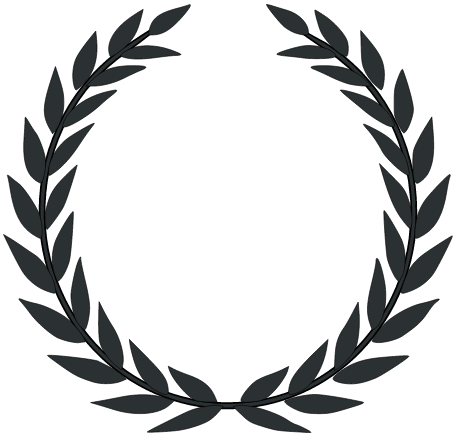
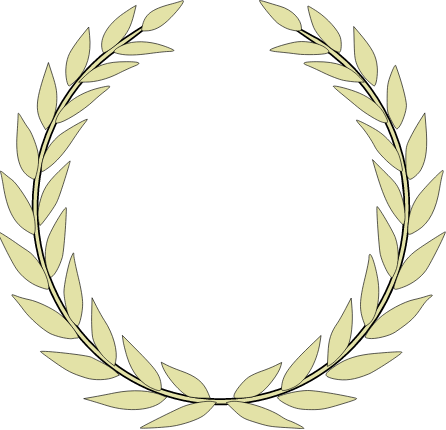
Player (Goalkeeper) added !

Changed region(s): [[0.0, 0.0, 1.0, 0.9977]]

diff --git a/src/components/carte/joueur/JoueurGardienCarte.js b/src/components/carte/joueur/JoueurGardienCarte.js
@@ -1,10 +1,11 @@
 import '../../../styles/index.css'
 import {Link} from "react-router-dom";
 
+// IMG
+import { PLAYERS, NATIONALITIES } from '../../../data/Api';
+
 // Images
-import onana from '../../../assets/onana.png'
-import laurier_blue from '../../../assets/laurier_blue.png'
-import argentina from '../../../assets/argentina.png'
+import laurier from '../../../assets/laurier.png'
 import match from '../../../assets/icon/match.png'
 import goalkeeper from '../../../assets/icon/goalkeeper.png'
 import save from '../../../assets/icon/save.png'
@@ -14,7 +15,10 @@ import Box from '@mui/material/Box';
 import { Tooltip } from '@mui/material';
 import { COLOR } from '../../../data/Constants';
 
-function JoueurGardienCarte({ isClickDisabled = false}){
+function JoueurGardienCarte(props){
+    const gk_player = props.gk_player;
+    const isClickDisabled = false;
+
     return(
         <div className={`${isClickDisabled ? 'h-full' : ''} flex justify-evenly`}>
             <div className="mt-1">
@@ -26,31 +30,31 @@ function JoueurGardienCarte({ isClickDisabled = false}){
                         >
                             {/* (1) Laurier(img) */}
                             <div className="z-10 top-1/4 left-1/4 translate-x-[8rem] translate-y-[1.5rem]">
-                                <img className="w-[4rem] h-[4rem]" src={laurier_blue} alt="" />
+                                <img className="w-[4rem] h-[4rem]" src={laurier} alt="" />
                             </div>
 
                             {/* (2) Drapeau(img) & Position(p) */}
                             <div className="flex flex-col justify-center translate-x-[1.5rem] translate-y-[3rem]">
                                 <div className="z-10 top-1/4 left-1/4">
-                                    <p className='text-white text-xl font-bold -translate-x-[6.5rem] -translate-y-[0.5rem]'>ST</p>
+                                    <p className='text-white text-xl font-bold -translate-x-[6.5rem] -translate-y-[0.5rem]'>GK</p>
                                 </div>
                                 <div className="z-10 top-1/4 left-1/4">
-                                    <img className="w-[5rem] h-[4rem] translate-x-[1rem] translate-y-[0.5rem]" src={argentina} alt="argentina" />
+                                    <img className="w-[5rem] h-[4rem] translate-x-[1rem] translate-y-[0.5rem]" src={`${NATIONALITIES.IMG}/${gk_player.nationalityName}`} alt={`${gk_player.nationalityName}`} />
                                 </div>
                             </div>
 
                             {/* (3) Joueur(img) & Nom(p) */}
                             <div className="flex flex-col justify-center">
                                 <div className="z-10 top-1/4 left-1/4 translate-x-[10rem] -translate-y-[3rem]">
-                                    <img className="w-[8rem] h-[8rem] rounded-full border-solid border-4 border-tiffanyBlue" src={onana} alt="" />
+                                    <img className="w-[8rem] h-[8rem] rounded-full border-solid border-4 border-yellow bg-white" src={`${PLAYERS.IMG}/${gk_player.playerId}`} alt={`${gk_player.playerName}`}  />
                                 </div>
-                                <p className="z-10 text-white text-2xl font-title font-bold -translate-y-[1.5rem]">André Onana</p>
+                                <p className="z-10 text-white text-2xl font-title font-bold -translate-y-[1.5rem]">{gk_player.playerName}</p>
                             </div>
 
                             {/* (4) Stats */} 
                             <div className="flex flex-col justify-center translate-x-[0.3rem] -translate-y-[1.3rem] mx-3">
                                 {/* 1) all_nb_games / all_avg_minutes */}
-                                <div className="flex justify-normal px-3 pb-1">
+                                <div className="flex justify-evenly px-3 pb-1">
                                     <div className="flex items-center">  
                                         <Tooltip title="All Games" arrow placement="left">
                                             <Box className="flex" sx={{color: COLOR.GUNMETAL}}>
@@ -58,26 +62,26 @@ function JoueurGardienCarte({ isClickDisabled = false}){
                                                     <img className='w-8' src={match} alt="match"/>
                                                 </div>
                                                 <div className='flex items-center'>
-                                                    <p className='text-white font-bold font-content'>125 <small>match(s)</small></p>
+                                                    <p className='text-white font-bold font-content'>{gk_player.allNbGames} <small>mt(s)</small></p>
                                                 </div>
                                             </Box>
                                         </Tooltip>                                         
                                     </div>    
-                                    <div className="flex items-center ml-4">
+                                    <div className="flex items-center ml-11">
                                         <Tooltip title="All Goals Against" arrow placement="left">
                                             <Box className="flex" sx={{color: COLOR.GUNMETAL}}>
                                                 <div className='mr-2'>
                                                     <img className='w-8' src={goalkeeper} alt="goalkeeper"/>
                                                 </div>
                                                 <div className='flex items-center'>
-                                                    <p className='text-white font-bold font-content'>340 <small>ga(s)</small></p>
+                                                    <p className='text-white font-bold font-content'>{gk_player.allGas} <small>ga(s)</small></p>
                                                 </div>
                                             </Box>
                                         </Tooltip>                                            
                                     </div>
                                 </div>
-                                {/* 2) all_goals / all_assists */}
-                                <div className="flex justify-normal px-3 pb-1">
+                                {/* 2) all_saves / all_cs */}
+                                <div className="flex justify-evenly px-3 pb-1">
                                     <div className="flex items-center">  
                                         <Tooltip title="All Saves" arrow placement="right">
                                             <Box className="flex" sx={{color: COLOR.GUNMETAL}}>
@@ -85,26 +89,26 @@ function JoueurGardienCarte({ isClickDisabled = false}){
                                                     <img className='w-8' src={save} alt="save"/>
                                                 </div>
                                                 <div className='flex items-center'>
-                                                    <p className='text-white font-bold font-content'>145 <small>save(s)</small></p>
+                                                    <p className='text-white font-bold font-content'>{gk_player.allSaves} <small>save(s)</small></p>
                                                 </div>
                                             </Box>
                                         </Tooltip>                                          
                                     </div>    
-                                    <div className="flex items-center ml-[1.5rem]">
+                                    <div className="flex items-center ml-8">
                                         <Tooltip title="All Clean Sheets" arrow placement="right">
                                             <Box className="flex" sx={{color: COLOR.GUNMETAL}}>
                                                 <div className='mr-2'>
                                                     <img className='w-8' src={goalkeeper} alt="goalkeeper"/>
                                                 </div>
                                                 <div className='flex items-center'>
-                                                    <p className='text-white font-bold font-content'>190 <small>cs(s)</small></p>
+                                                    <p className='text-white font-bold font-content'>{gk_player.allCs} <small>cs(s)</small></p>
                                                 </div>
                                             </Box>
                                         </Tooltip>                                        
                                     </div>
                                 </div>
                                 {/* 3) all_yellow_cards / all_red_cards */}
-                                <div className="flex justify-normal px-3">
+                                <div className="flex justify-evenly px-3">
                                     <div className="flex items-center">  
                                         <Tooltip title="All Games" arrow placement="left">
                                             <Box className="flex" sx={{color: COLOR.GUNMETAL}}>
@@ -112,19 +116,19 @@ function JoueurGardienCarte({ isClickDisabled = false}){
                                                     <img className='w-8' src={stadium} alt="win"/>
                                                 </div>
                                                 <div className='flex items-center'>
-                                                    <p className='text-white font-bold font-content'>12 <small>win(s)</small></p>
+                                                    <p className='text-white font-bold font-content'>{gk_player.allWins} <small>win(s)</small></p>
                                                 </div>
                                             </Box>
                                         </Tooltip>                                         
                                     </div>    
-                                    <div className="flex items-center ml-[2.5rem]">
+                                    <div className="flex items-center ml-12">
                                         <Tooltip title="Average Minutes" arrow placement="right">
                                             <Box className="flex" sx={{color: COLOR.GUNMETAL}}>
                                                 <div className='mr-2'>
                                                     <img className='w-8' src={stadium} alt="lose"/>
                                                 </div>
                                                 <div className='flex items-center'>
-                                                    <p className='text-white font-bold font-content'>5 <small>lose(s)</small></p>
+                                                    <p className='text-white font-bold font-content'>{gk_player.allLoses} <small>lose(s)</small></p>
                                                 </div>
                                             </Box>
                                         </Tooltip>                                        

diff --git a/src/components/carte/joueur/JoueurCarte.js b/src/components/carte/joueur/JoueurCarte.js
@@ -1,22 +1,27 @@
 import '../../../styles/index.css'
 import {Link} from "react-router-dom";
 
+// IMG
+import { PLAYERS, NATIONALITIES } from '../../../data/Api';
+
 // Images
-import messi from '../../../assets/messi.png'
-import laurier_blue from '../../../assets/laurier_blue.png'
-import argentina from '../../../assets/argentina.png'
+import laurier from '../../../assets/laurier.png'
 import match from '../../../assets/icon/match.png'
 import time from '../../../assets/icon/time.png'
 import shoot from '../../../assets/icon/shoot.png'
 import kickball from '../../../assets/icon/kickball.png'
 import yellow_card from '../../../assets/icon/yellow_card.png'
-import red_card from '../../../assets/icon/red_card.png'
+import red_card  from '../../../assets/icon/red_card.png'
 
 import Box from '@mui/material/Box';
 import { Tooltip } from '@mui/material';
 import { COLOR } from '../../../data/Constants';
 
-function JoueurCarte({ isClickDisabled = false}){
+function JoueurCarte(props){
+    const isClickDisabled = false;
+    const player = props.player;
+
+    console.log("player", player)
     return(
         <div className={`${isClickDisabled ? 'h-full' : ''} flex justify-evenly`}>
             <div className="mt-1">
@@ -28,29 +33,29 @@ function JoueurCarte({ isClickDisabled = false}){
                         >
                             {/* (1) Laurier(img) */}
                             <div className="z-10 top-1/4 left-1/4 translate-x-[8rem] translate-y-[1.5rem]">
-                                <img className="w-[4rem] h-[4rem]" src={laurier_blue} alt="" />
+                                <img className="w-[4rem] h-[4rem]" src={laurier} alt="laurier" />
                             </div>
 
                             {/* (2) Drapeau(img) & Position(p) */}
                             <div className="flex flex-col justify-center translate-x-[1.5rem] translate-y-[3rem]">
                                 <div className="z-10 top-1/4 left-1/4">
-                                    <p className='text-white text-xl font-bold -translate-x-[6.5rem] -translate-y-[0.5rem]'>ST</p>
+                                    <p className='text-white text-xl font-bold -translate-x-[6.5rem] -translate-y-[0.5rem]'>{player.playerPosition}</p>
                                 </div>
                                 <div className="z-10 top-1/4 left-1/4">
-                                    <img className="w-[5rem] h-[4rem] translate-x-[1rem] translate-y-[0.5rem]" src={argentina} alt="argentina" />
+                                    <img className="w-[5rem] h-[4rem] translate-x-[1rem] translate-y-[0.5rem]" src={`${NATIONALITIES.IMG}/${player.nationalityName}`} alt={`${player.nationalityName}`} />
                                 </div>
                             </div>
 
                             {/* (3) Joueur(img) & Nom(p) */}
                             <div className="flex flex-col justify-center">
                                 <div className="z-10 top-1/4 left-1/4 translate-x-[10rem] -translate-y-[3rem]">
-                                    <img className="w-[8rem] h-[8rem] rounded-full border-solid border-4 border-tiffanyBlue" src={messi} alt="" />
+                                    <img className="w-[8rem] h-[8rem] rounded-full border-solid border-4 border-yellow bg-white" src={`${PLAYERS.IMG}/${player.playerId}`} alt={`${player.playerName}`} />
                                 </div>
-                                <p className="z-10 text-white text-2xl font-title font-bold -translate-y-[1.5rem]">Lionel Messi</p>
+                                <p className="z-10 text-white text-2xl font-title font-bold -translate-y-[1.5rem]">{player.playerName}</p>
                             </div>
 
                             {/* (4) Stats */} 
-                            <div className="flex flex-col justify-center translate-x-[0.3rem] -translate-y-[1.3rem] mx-3">
+                            <div className="flex flex-col justify-center translate-x-[1rem] -translate-y-[1.3rem] mx-3">
                                 {/* 1) all_nb_games / all_avg_minutes */}
                                 <div className="flex justify-normal px-3 pb-1">
                                     <div className="flex items-center">  
@@ -60,19 +65,19 @@ function JoueurCarte({ isClickDisabled = false}){
                                                     <img className='w-8' src={match} alt="match"/>
                                                 </div>
                                                 <div className='flex items-center'>
-                                                    <p className='text-white font-bold font-content'>125 <small>match(s)</small></p>
+                                                    <p className='text-white font-bold font-content'>{player.allNbGames} <small>mt(s)</small></p>
                                                 </div>
                                             </Box>
                                         </Tooltip>                                         
                                     </div>    
-                                    <div className="flex items-center ml-4">
+                                    <div className="flex items-center ml-10">
                                         <Tooltip title="Average Minutes" arrow placement="right">
                                             <Box className="flex" sx={{color: COLOR.GUNMETAL}}>
                                                 <div className='mr-2'>
                                                     <img className='w-8' src={time} alt="time"/>
                                                 </div>
                                                 <div className='flex items-center'>
-                                                    <p className='text-white font-bold font-content'>90.3 <small>min.</small></p>
+                                                    <p className='text-white font-bold font-content'>{player.avgMinutes} <small>min.</small></p>
                                                 </div>
                                             </Box>
                                         </Tooltip>                                        
@@ -87,7 +92,7 @@ function JoueurCarte({ isClickDisabled = false}){
                                                     <img className='w-8' src={shoot} alt="shoot"/>
                                                 </div>
                                                 <div className='flex items-center'>
-                                                    <p className='text-white font-bold font-content'>455 <small>goal(s)</small></p>
+                                                    <p className='text-white font-bold font-content'>{player.allGoals} <small>goal(s)</small></p>
                                                 </div>
                                             </Box>
                                         </Tooltip>                                        
@@ -99,7 +104,7 @@ function JoueurCarte({ isClickDisabled = false}){
                                                     <img className='w-8' src={kickball} alt="keecball"/>
                                                 </div>
                                                 <div className='flex items-center'>
-                                                    <p className='text-white font-bold font-content'>145 <small>assist(s)</small></p>
+                                                    <p className='text-white font-bold font-content'>{player.allAssists} <small>assist(s)</small></p>
                                                 </div>
                                             </Box>
                                         </Tooltip>                                        
@@ -114,7 +119,7 @@ function JoueurCarte({ isClickDisabled = false}){
                                                     <img className='w-8' src={yellow_card} alt="yellow_card"/>
                                                 </div>
                                                 <div className='flex items-center'>
-                                                    <p className='text-white font-bold font-content'>125 <small>yellow</small></p>
+                                                    <p className='text-white font-bold font-content'>{player.allYellowCards} <small>yellow</small></p>
                                                 </div>
                                             </Box>
                                         </Tooltip>                                         
@@ -126,7 +131,7 @@ function JoueurCarte({ isClickDisabled = false}){
                                                     <img className='w-8' src={red_card} alt="red_card"/>
                                                 </div>
                                                 <div className='flex items-center'>
-                                                    <p className='text-white font-bold font-content'>5 <small>red</small></p>
+                                                    <p className='text-white font-bold font-content'>{player.allRedCards} <small>red</small></p>
                                                 </div>
                                             </Box>
                                         </Tooltip>                                        

diff --git a/src/components/menu/Club.js b/src/components/menu/Club.js
@@ -69,6 +69,8 @@ function Club() {
             { queryKey: ['bestTop10Playmakers',3], queryFn: () => fetch(PLAYERS.BEST_TOP_10_PLAYMAKERS+'?club_id='+club_id).then(res => res.json())},
             { queryKey: ['bestTop10Goalkeepers',4], queryFn: () => fetch(PLAYERS.BEST_TOP_10_GOALKEEPERS+'?club_id='+club_id).then(res => res.json())},
             { queryKey: ['club_stats',5], queryFn: () => fetch(CLUBS.STATS+'?club_id='+club_id).then(res => res.json())},
+            { queryKey: ['club_all_players', 6], queryFn: () => fetch(PLAYERS.ALL_PLAYERS_IN_CLUB+'?club_id='+club_id).then(res => res.json())},
+            { queryKey: ['club_all_goalkeepers', 7], queryFn: () => fetch(PLAYERS.ALL_GK_PLAYERS_IN_CLUB+'?club_id='+club_id).then(res => res.json())},
         ]
     )
 
@@ -97,6 +99,8 @@ function Club() {
     const bestTop10Playmakers = resultQueries[2].data;
     const bestTop10Goalkeepers = resultQueries[3].data;
     const club_stats = resultQueries[4].data;
+    const club_all_players = resultQueries[5].data;
+    const club_all_goalkeepers = resultQueries[6].data;
 
     // (2) DATA : DATA FOR BESTS & RANKING FOR SEASONS
     const BESTS = [
@@ -140,11 +144,12 @@ function Club() {
                 </BlocContent> 
                 <BlocTitre title="Cliquez sur le joueur que vous voulez voir ci-dessous"/>
                 <BlocJoueurCarte>
-                    <JoueurCarte/>
-                    <JoueurGardienCarte/>
-                    <JoueurCarte/>
-                    <JoueurCarte/>
-                    <JoueurGardienCarte/>
+                    {club_all_goalkeepers.map(gk_player => (
+                        <JoueurGardienCarte key={gk_player.id} gk_player={gk_player}/>
+                    ))}
+                    {club_all_players.map(player => (
+                        <JoueurCarte key={player.id} player={player}/>
+                    ))}
                 </BlocJoueurCarte>
             </div>
             )

diff --git a/src/data/Api.js b/src/data/Api.js
@@ -1,6 +1,10 @@
 const API_URL = "https://footstatsapi.sangmin.fr/api/"
 // const API_URL = "http://localhost:7777/api/"
 
+const NATIONALITIES = {
+    IMG : API_URL + "images/nationalities",
+}
+
 const LEAGUES = {
     DATA : API_URL + "leagues",
     RANKING : API_URL + "rankings_league",
@@ -43,8 +47,9 @@ const PLAYERS = {
     BEST_TOP_10_GOALKEEPERS : API_URL + "stats_gk_player/total_best_10_gk_players_by_club", // ?club_id=
 
     // ALL PLYAERS : ?club_id=
-    
+    ALL_PLAYERS_IN_CLUB : API_URL + "stats_player/total_players_by_club", // ?club_id= , ?player_id=
+    ALL_GK_PLAYERS_IN_CLUB : API_URL + "stats_gk_player/total_gk_players_by_club", // ?club_id= , ?player_id=
 }
 
-export { LEAGUES, CLUBS, PLAYERS } 
+export { LEAGUES, CLUBS, PLAYERS, NATIONALITIES } 
 

diff --git a/tailwind.config.js b/tailwind.config.js
@@ -15,6 +15,7 @@ module.exports = {
       'powderBlue' : '#b2c7f0',
       'white' : '#ffffff',
       'gray':'#4f5459',
+      'yellow': '#e3e2a7',
     },
     fontFamily: {
       title : ['Montserrat', 'sans-serif'],
